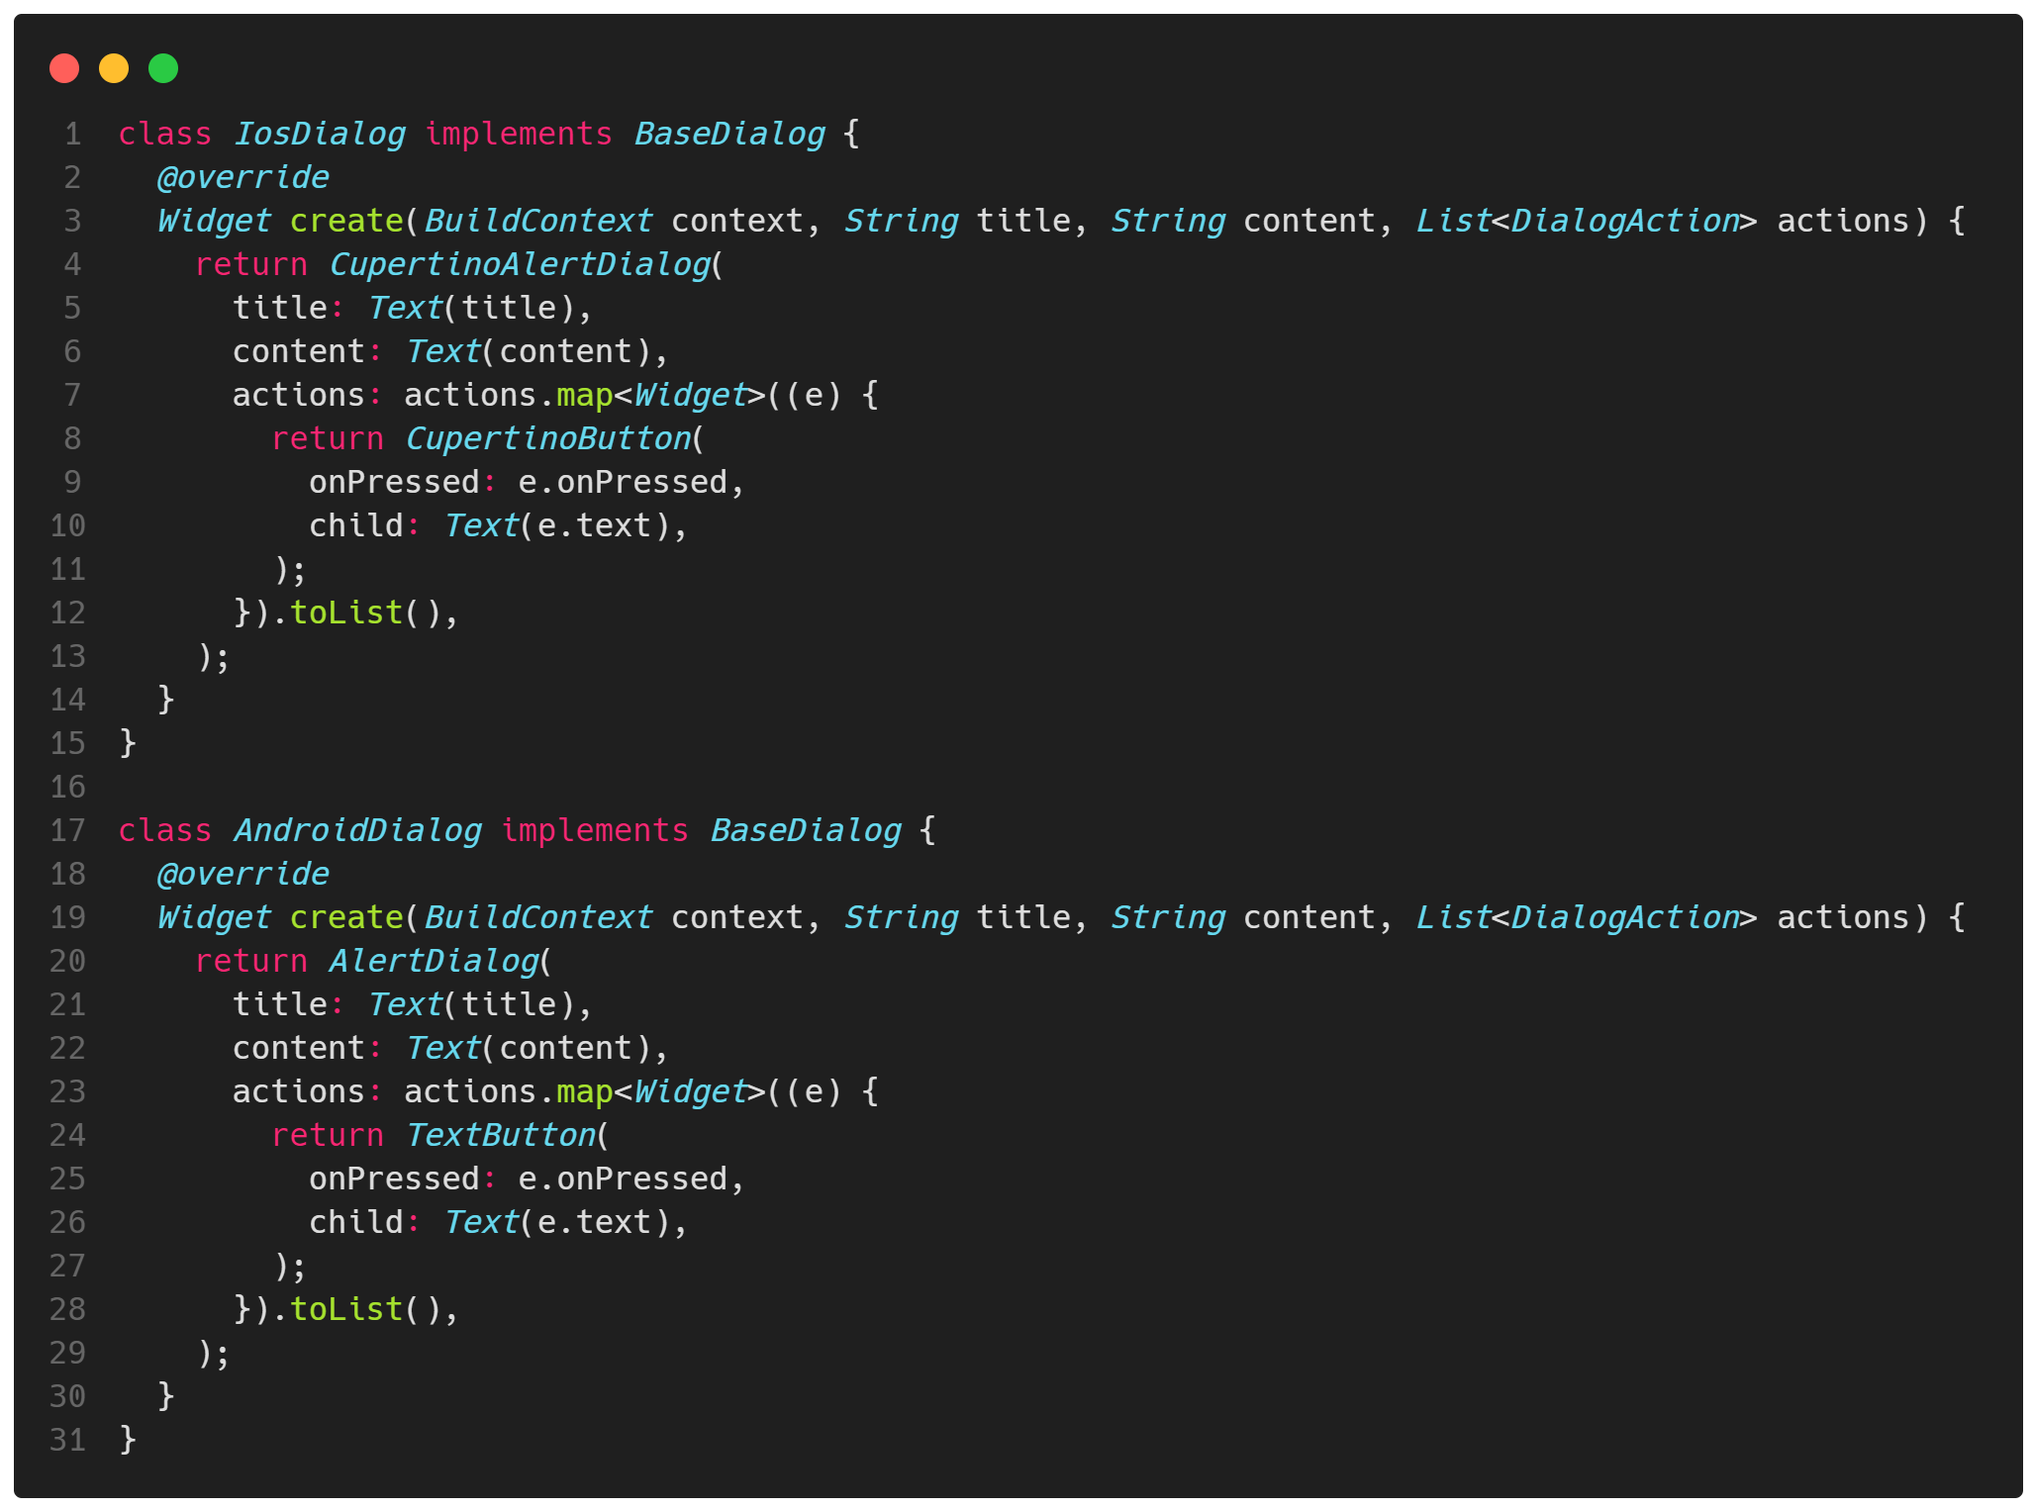
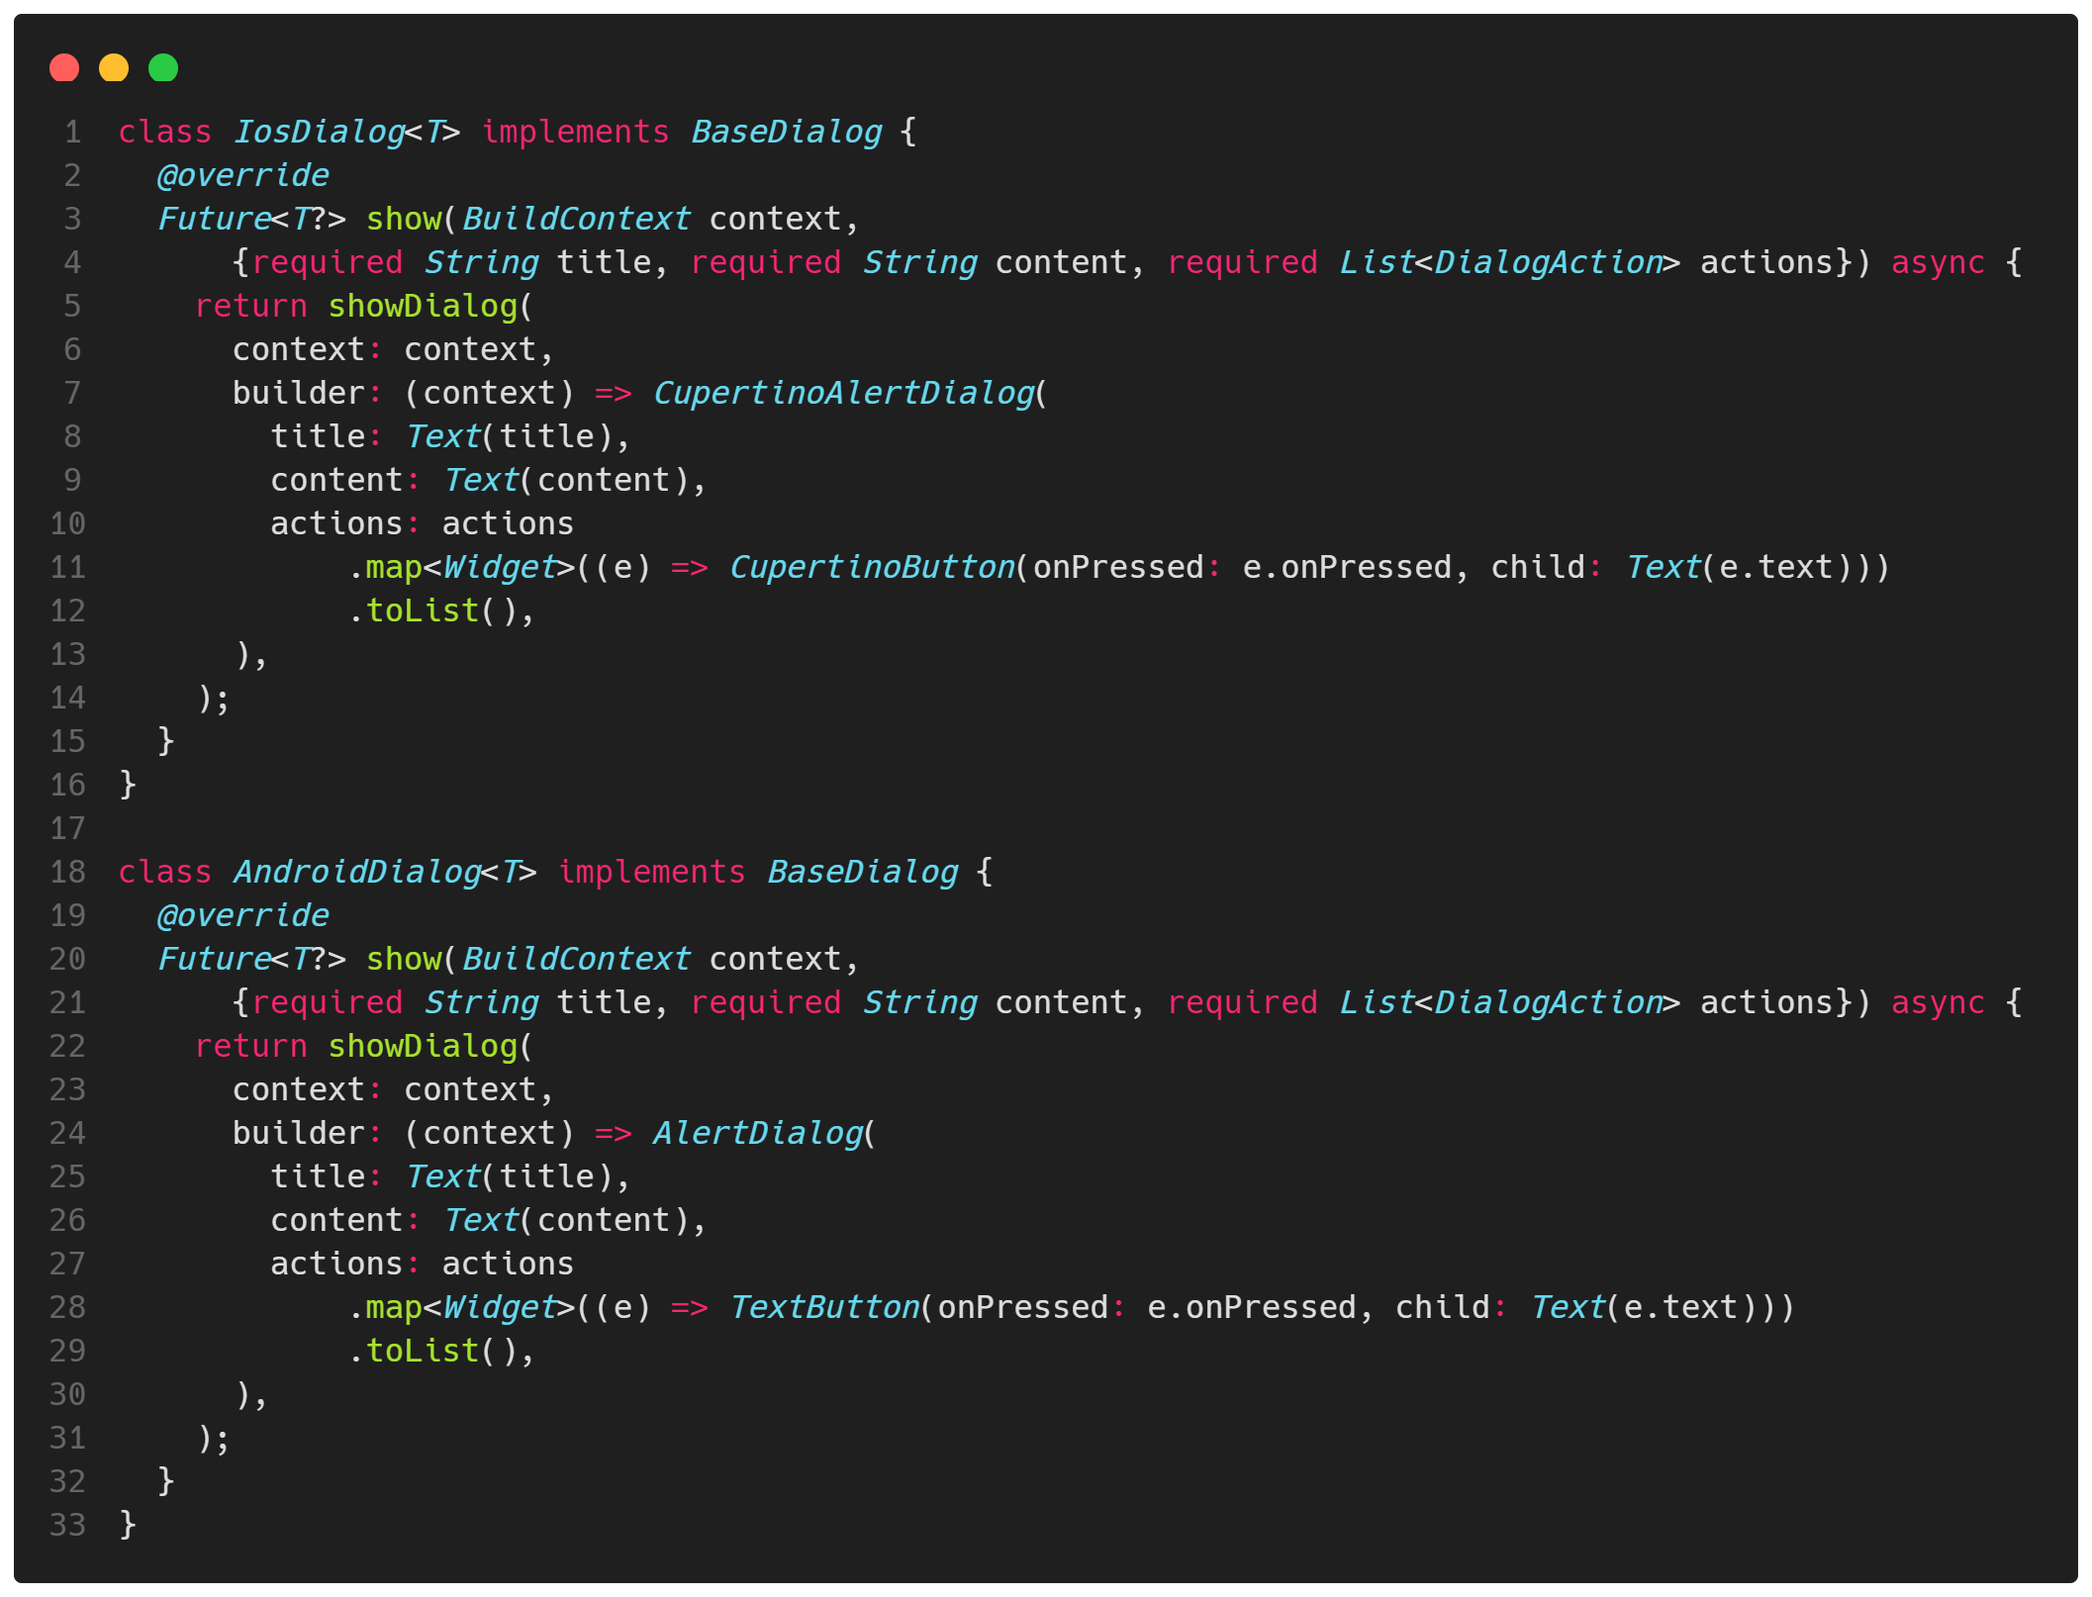
feat: improve use of factory pattern

diff --git a/poc/lib/dialog/approaches/factory/ios_dialog.dart b/poc/lib/dialog/approaches/factory/ios_dialog.dart
@@ -1,18 +1,30 @@
 import 'package:flutter/cupertino.dart';
-import 'package:poc_tcc/dialog/approaches/factory/base_dialog.dart';
+import 'package:flutter/material.dart';
 
-class IosDialog implements BaseDialog {
+import 'base_dialog.dart';
+
+class IosDialog<T> implements BaseDialog {
   @override
-  Widget create(BuildContext context, String title, String content, List<DialogAction> actions) {
-    return CupertinoAlertDialog(
-      title: Text(title),
-      content: Text(content),
-      actions: actions.map<Widget>((e) {
-        return CupertinoButton(
-          onPressed: e.onPressed,
-          child: Text(e.text),
+  Future<T?> show(
+    BuildContext context, {
+    required String title,
+    required String content,
+    required List<DialogAction> actions,
+  }) async {
+    return showDialog(
+      context: context,
+      builder: (context) {
+        return CupertinoAlertDialog(
+          title: Text(title),
+          content: Text(content),
+          actions: actions.map<Widget>((e) {
+            return CupertinoButton(
+              onPressed: e.onPressed,
+              child: Text(e.text),
+            );
+          }).toList(),
         );
-      }).toList(),
+      },
     );
   }
 }

diff --git a/poc/lib/dialog/approaches/factory/android_dialog.dart b/poc/lib/dialog/approaches/factory/android_dialog.dart
@@ -1,18 +1,29 @@
 import 'package:flutter/material.dart';
-import 'package:poc_tcc/dialog/approaches/factory/base_dialog.dart';
 
-class AndroidDialog implements BaseDialog {
+import 'base_dialog.dart';
+
+class AndroidDialog<T> implements BaseDialog {
   @override
-  Widget create(BuildContext context, String title, String content, List<DialogAction> actions) {
-    return AlertDialog(
-      title: Text(title),
-      content: Text(content),
-      actions: actions.map<Widget>((e) {
-        return TextButton(
-          onPressed: e.onPressed,
-          child: Text(e.text),
+  Future<T?> show(
+    BuildContext context, {
+    required String title,
+    required String content,
+    required List<DialogAction> actions,
+  }) async {
+    return showDialog(
+      context: context,
+      builder: (context) {
+        return AlertDialog(
+          title: Text(title),
+          content: Text(content),
+          actions: actions.map<Widget>((e) {
+            return TextButton(
+              onPressed: e.onPressed,
+              child: Text(e.text),
+            );
+          }).toList(),
         );
-      }).toList(),
+      },
     );
   }
 }

diff --git a/poc/lib/dialog/approaches/factory/factory_dialog_page.dart b/poc/lib/dialog/approaches/factory/factory_dialog_page.dart
@@ -1,6 +1,6 @@
 import 'package:flutter/material.dart';
 import 'package:poc_tcc/dialog/approaches/factory/base_dialog.dart';
-import 'package:poc_tcc/dialog/approaches/factory/dialog_factory.dart';
+import 'package:poc_tcc/main.dart';
 
 class FactoryDialogPage extends StatefulWidget {
   const FactoryDialogPage({Key? key}) : super(key: key);
@@ -20,7 +20,7 @@ class _FactoryDialogPageState extends State<FactoryDialogPage> {
         child: ElevatedButton(
           child: const Text("Aperte para abrir o Dialog"),
           onPressed: () {
-            DialogFactory.showAlertDialog(
+            dialog.show(
               context,
               title: "Confirmação Necessária",
               content: "Deseja confirmar a operação?",

diff --git a/poc/lib/main.dart b/poc/lib/main.dart
@@ -1,8 +1,25 @@
+import 'dart:io';
+
 import 'package:flutter/material.dart';
+import 'package:poc_tcc/dialog/approaches/factory/android_dialog.dart';
+import 'package:poc_tcc/dialog/approaches/factory/ios_dialog.dart';
 import 'package:poc_tcc/home_page.dart';
 
+import 'dialog/approaches/factory/base_dialog.dart';
+
+late final BaseDialog dialog;
+
 void main() {
+  dialog = _configureDialog();
   runApp(const MyApp());
+}
+
+BaseDialog _configureDialog() {
+  if (Platform.isIOS) {
+    return IosDialog();
+  } else {
+    return AndroidDialog();
+  }
 }
 
 class MyApp extends StatelessWidget {

diff --git a/poc/lib/dialog/approaches/factory/base_dialog.dart b/poc/lib/dialog/approaches/factory/base_dialog.dart
@@ -1,7 +1,12 @@
 import 'package:flutter/material.dart';
 
-abstract interface class BaseDialog {
-  Widget create(BuildContext context, String title, String content, List<DialogAction> actions);
+abstract interface class BaseDialog<T> {
+  Future<T?> show(
+    BuildContext context, {
+    required String title,
+    required String content,
+    required List<DialogAction> actions,
+  });
 }
 
 class DialogAction {

diff --git a/tex/template.tex b/tex/template.tex
@@ -353,7 +353,7 @@ A linguagem Dart também se caracteriza pela funcionalidade de \textit{null safe
     \label{fig:null_safety}
 \end{figure}
 
-Sobre o Flutter em si, ele foi apresentado inicialmente em 2015 e lançado em versão estável em dezembro de 2018. Ele se caracteriza como um \textit{framework} para construção de interfaces gráficas que é capaz de construir aplicações compiladas nativamente para diversas plataformas, como \textit{mobile}, \textit{web}, \textit{desktop} e sistemas embarcados a partir de uma única base de código, com destaque para o fato das aplicações rodarem a 60 quadros por segundo e com o desenvolvedor conseguindo controlar cada pixel na tela.
+Sobre o Flutter em si, ele foi apresentado inicialmente em 2015 e lançado em versão estável em dezembro de 2018. Ele se caracteriza como um \textit{framework} para construção de interfaces gráficas que utiliza da linguagem Dart para construir aplicações compiladas nativamente para diversas plataformas, como \textit{mobile}, \textit{web}, \textit{desktop} e sistemas embarcados a partir de uma única base de código, com destaque para o fato das aplicações rodarem a 60 quadros por segundo e com o desenvolvedor conseguindo controlar cada pixel na tela.
 
 Muitos \textit{frameworks} para criação de interface trabalham de forma imperativa, com a construção sendo realizada por meio de objeto criados e modificações sendo feitas de forma explícita pela chamada de métodos desses objetos. O Flutter se diferencia por sua UI ser feita de forma declarativa. Os componentes de visualização, representados por objetos e comumente chamados de \textit{Widgets}, são imutáveis e são apenas esquemáticas leves de como a tela deve ser. Para que seja feita alguma alteração na tela, algum \textit{widget} deve acionar uma reconstrução dele mesmo, que fará com que no próximo quadro de renderização a tela seja recriada com base no novo estado. Sobre estados, a interface no Flutter se caracteriza por ser uma função do estado atual dos componentes, de forma que o estado é caracterizado como qualquer dado que seja necessário para reconstruir a interface em um dado momento do tempo. Na Figura \ref{fig:counter_example}, tem-se um exemplo de como funciona uma interface com Flutter. É criado um objeto que estende de \textit{StatefulWidget}, que é um \textit{widget} que possui um estado mutável, e possui dentro de si uma variável do tipo inteiro que guarda um valor de contador. A interface é construída dentro do método \textit{build}, que é chamado sempre que há um acionamento para reconstrução da tela. Esse acionamento é realizado por meio da chamada do método \textit{setState}, que é herdado da classe \textit{State}. Assim, pela construção da tela do exemplo da Figura \ref{fig:counter_example}, sempre que o usuário tocar ou clicar no valor do contador sendo mostrado ao centro do tela, irá ocorrer o incremento do valor da variável do contador e a tela será reconstruída de forma a ser exibido o novo valor do contador no próximo quadro de renderização da aplicação.
 
@@ -662,7 +662,7 @@ Apesar de bem direta, a forma apresentada acarretará em problemas futuros para 
 
 \subsection{Uso do Padrão Factory para Exibir Componentes Nativos}
 
-Diante dos problemas apresentados, é possível introduzir o padrão de projeto \textit{Factory}, que permitirá a criação de uma classe que encapsulará a responsabilidade de realizar a checagem de plataforma e, diante de uma interface criada para a exibição de \textit{Dialogs}, irá retornar o \textit{Dialog} apropriado para a plataforma vigente em que a aplicação está rodando. Para implementar esse padrão, é necessário primeiramente criar a interface que todas as implementações de \textit{Dialog} devem seguir. Essa interface receberá o título, conteúdo e as ações possíveis para os botões do \textit{Dialog}, como visto na Figura \ref{fig:base_dialog}.
+Diante dos problemas apresentados, é possível introduzir o padrão de projeto \textit{Factory}, no qual a partir de uma classe abstrata pode-se definir qual será a interface necessária para a criação de um \textit{Dialog}, com a aplicação instanciando a devida implementação do \textit{Dialog} de acordo com o sistema operacional no qual a aplicação está sendo executada.Para implementar esse padrão, é necessário primeiramente criar a interface que todas as implementações de \textit{Dialog} devem seguir. Essa interface receberá o título, conteúdo e as ações possíveis para os botões do \textit{Dialog}, como visto na Figura \ref{fig:base_dialog}.
 
 \begin{figure}[ht]
     \centering
@@ -671,26 +671,35 @@ Diante dos problemas apresentados, é possível introduzir o padrão de projeto 
     \label{fig:base_dialog}
 \end{figure}
 
-Em seguida, deve-se criar as implementações dos \textit{Dialogs} a partir dessa interface criada, com cada um retornando o componente correto de cada plataforma e realizando customizações que serão específicas daquela plataforma, como visto na Figura \ref{fig:dialog_implementations}.
-
+Em seguida, deve-se criar as implementações dos \textit{Dialogs} a partir dessa interface criada, com cada uma sendo responsável por exibir o componente correto para aquela plataforma, como visto na Figura \ref{fig:dialog_implementations}.
 
 \begin{figure}[ht]
     \centering
-    \includegraphics[width=.85\textwidth, trim={0 30 0 100}, clip]{figures/dialog/dialog_implementations.png}
+    \includegraphics[width=1\textwidth, trim={0 30 0 100}, clip]{figures/dialog/dialog_implementations.png}
     \caption{Implementações dos \textit{Dialogs} com base na interface \textit{BaseDialog}. Fonte: Do Autor.}
     \label{fig:dialog_implementations}
 \end{figure}
 
-Para a aplicação do padrão \textit{Factory} em si, deve-se criar a classe abtrasta que conterá um método fábrica para retornar uma instância de \textit{BaseDialog} e também sua implementação concreta. Para esse trabalho, como apenas haveria uma classe concreta, decidiu-se criar apenas uma classe concreta que conterá um método estático que, de acordo com a plataforma em que a aplicação está executando, irá retornar a implementação de \textit{BaseDialog}. Assim, foi criada a classe \textit{DialogFactory}, que irá receber os parâmetros de título, conteúdo e ações dos botões e irá fazer a verificação de qual plataforma a aplicação está rodando para que possa ser feita a escolha de qual implementação do \textit{BaseDialog} será utilizada para a exibição do componente de \textit{dialog}, como visto na Figura \ref{fig:dialog_factory}. Com essa implementação utilizando o padrão \textit{Factory}, quando for necessário adicionar uma nova plataforma, bastará criar a nova implementação da interface \textit{BaseDialog} e adicionar uma única nova condição dentro da fábrica, de forma que em qualquer lugar da base de código que chame o método estático \textit{showAlertDialog} já será exibido o componente correto para a nova plataforma. Destaca-se que esse padrão pode ser aplicado para qualquer parte da interface, desde partes que chamem componentes de interface comuns nos sistemas operacionais, como \textit{overlays} de carregamento, \textit{date pickers}, \textit{dialogs}, até componentes mais específicos da aplicação em si, como \textit{cards}, campos de texto, botões, etc.
+Com as implementações da interface \textit{BaseDialog} feita, deve-se agora realizar a configuração de qual \textit{Dialog} será utilizado, de forma que isso deve ser feito na inicialização da aplicação, na função \textit{main}, com a atribuição da variável global \textit{dialog}, como pode ser visto na Figura \ref{fig:dialog_init}
 
 \begin{figure}[ht]
     \centering
-    \includegraphics[width=.75\textwidth, trim={0 30 0 100}, clip]{figures/dialog/dialog_factory.png}
-    \caption{Classe que utiliza propriamente o padrão \textit{Factory}. Fonte: Do Autor.}
-    \label{fig:dialog_factory}
+    \includegraphics[width=0.5\textwidth, trim={0 30 0 100}, clip]{figures/dialog/dialog_init.png}
+    \caption{Inicialização do \textit{Dialog} de acordo com o Sistema Operacional. Fonte: Do Autor.}
+    \label{fig:dialog_init}
 \end{figure}
 
-Dessa forma, com a aplicação do padrão de projeto \textit{Factory}, é possível que qualquer parte da interface da aplicação chame o método estático da fábrica para exibir o componente de \textit{Dialog}, sem que a interface tenha que se preocupar com qual a plataforma na qual a aplicação está sendo executada, de forma a focar apenas no conteúdo que o \textit{Dialog} deve receber.
+O uso do padrão pode ser visualizado na Figura \ref{fig:dialog_factory_use}, no qual é chamada diretamente o método \textit{show} na variável \textit{dialog}, em que são passados argumentos como título, conteúdo e ações, definidos na interface \textit{BaseDialog}
+
+\begin{figure}[ht]
+    \centering
+    \includegraphics[width=1\textwidth, trim={0 30 0 100}, clip]{figures/dialog/dialog_factory_use.png}
+    \caption{Uso do padrão \textit{Factory}. Fonte: Do Autor.}
+    \label{fig:dialog_factory_use}
+\end{figure}
+
+Com essa implementação utilizando o padrão \textit{Factory}, quando for necessário adicionar uma nova plataforma, bastará criar a nova implementação da interface \textit{BaseDialog} e adicionar uma única nova condição na inicialização da aplicação. Dessa forma, qualquer parte da interface gráfica poderá exibir \textit{Dialogs} sem ter que se preocupar com qual a plataforma na qual a aplicação está sendo executada, de forma a focar apenas no conteúdo que o \textit{Dialog} deve receber. É importante destacar que esse padrão pode ser aplicado para qualquer parte da interface, desde partes que chamem componentes de interface comuns nos sistemas operacionais, como \textit{overlays} de carregamento, \textit{date pickers}, \textit{dialogs}, até componentes mais específicos da aplicação em si, como \textit{cards}, campos de texto, botões, etc.
+
 
 \section{Aplicação de Conceitos de Arquitetura de Software} \label{sec:arch}
 
